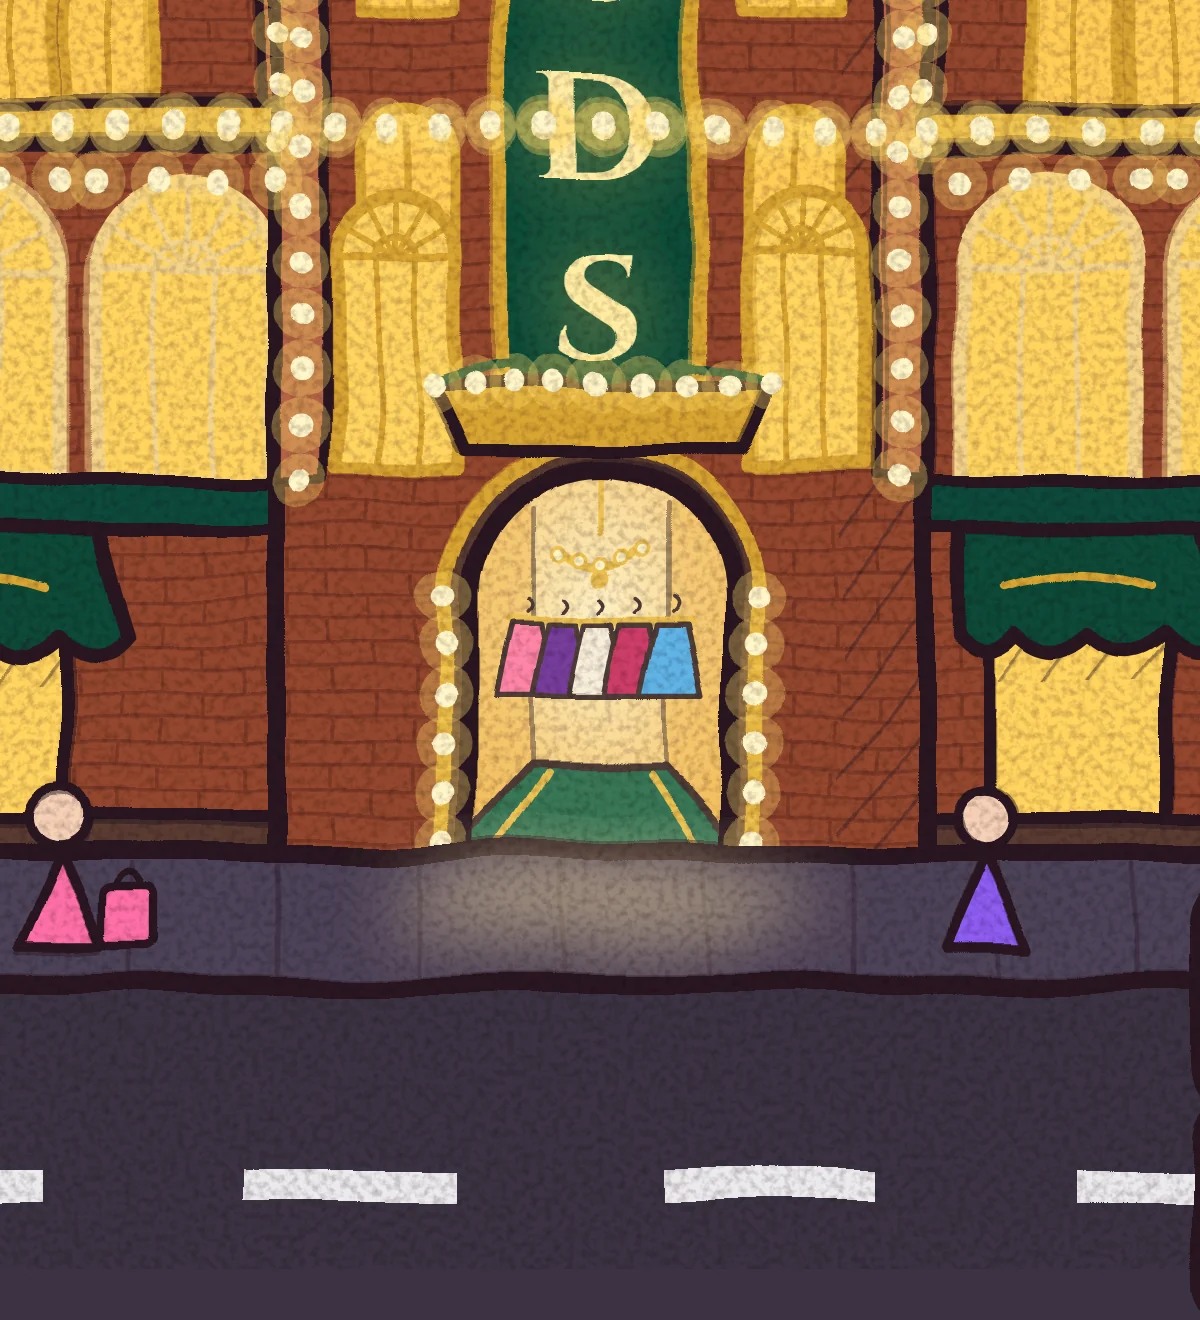
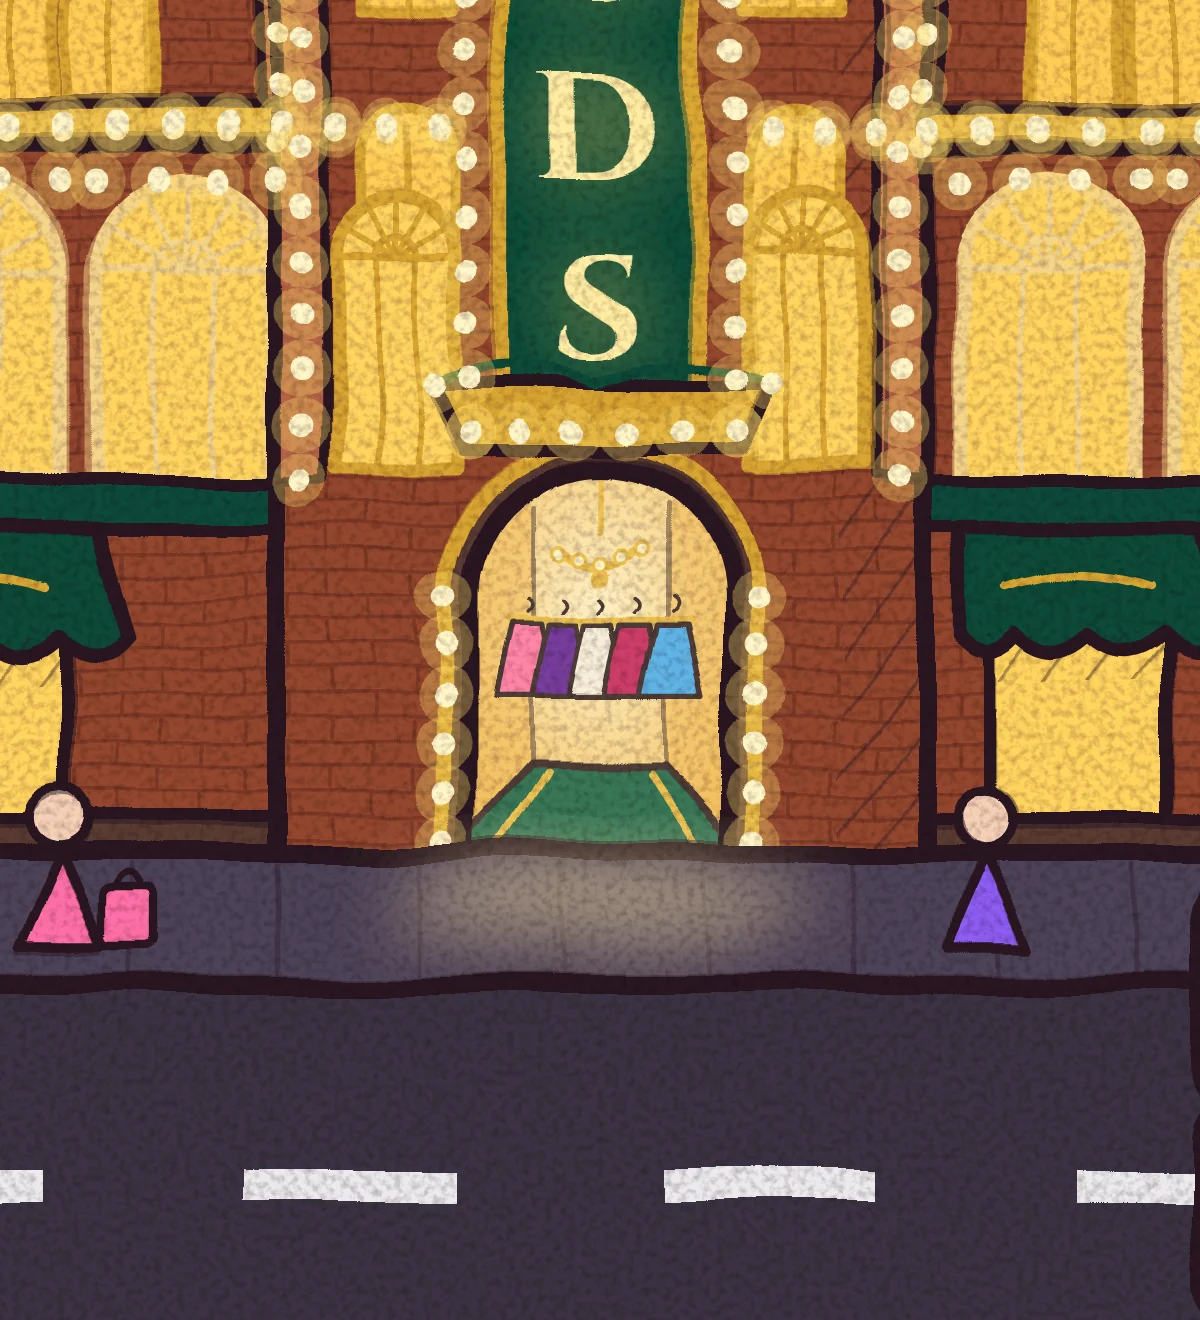
Publish web-robe to robe-web/ from ROBE-plan@1a8b78b

Changed region(s): [[0.37, 0.0, 0.6475, 0.3727]]

diff --git a/robe-web/styles.css b/robe-web/styles.css
@@ -789,6 +789,10 @@ main > section.list-yours { max-width: none; margin: 40px 0 0; padding: 72px max
 .fit-figure .fig-label.on { fill: #E83E8C; fill-opacity: 1; font-weight: 700; }
 .fit-measure-guide .fit-figure-garment { width: 100%; max-width: 260px; height: auto; margin: 0 auto; }
 .fit-invite .fit-add { width: 100%; min-height: 46px; padding: 12px 20px; border-radius: 999px; }
+/* The site's pill buttons when they're <button>s: the site's font, no browser border; full height in a column form. */
+button.qv-cta { border: 0; cursor: pointer; font: 500 15px var(--font-body); }
+button.qv-cta:disabled { opacity: 0.45; cursor: not-allowed; }
+.fit-editor > button.qv-cta { flex: none; width: 100%; height: 48px; margin-top: 6px; }
 .fit-basis { flex-wrap: wrap; border-radius: 16px; text-align: left; }
 .fit-styles { display: flex; justify-content: space-around; gap: 8px; margin: 4px 0; }
 .fit-styles figure { margin: 0; display: flex; flex-direction: column; align-items: center; gap: 4px; }

diff --git a/robe-web/shop.html b/robe-web/shop.html
@@ -17,7 +17,7 @@
     document.documentElement.dataset.theme = theme;
   })();
 </script>
-<link rel="stylesheet" href="styles.css?v=24">
+<link rel="stylesheet" href="styles.css?v=25">
 <link rel="stylesheet" href="shop.css?v=6">
 </head>
 <body data-page="shop">
@@ -72,7 +72,7 @@
   <script src="fitcheck.js?v=4"></script>
   <script src="brand-sizes.js?v=1"></script>
   <script src="fitfinder.js?v=2"></script>
-  <script src="town.js?v=5"></script>
+  <script src="town.js?v=6"></script>
   <script src="showcase.js?v=6"></script>
   <script src="pickup.js?v=2"></script>
   <script src="shop.js?v=10"></script>

diff --git a/robe-web/index.html b/robe-web/index.html
@@ -17,7 +17,7 @@
     document.documentElement.dataset.theme = theme;
   })();
 </script>
-<link rel="stylesheet" href="styles.css?v=24">
+<link rel="stylesheet" href="styles.css?v=25">
 </head>
 <body>
 
@@ -499,7 +499,7 @@
   <script src="fitcheck.js?v=4"></script>
   <script src="brand-sizes.js?v=1"></script>
   <script src="fitfinder.js?v=2"></script>
-  <script src="town.js?v=5"></script>
+  <script src="town.js?v=6"></script>
   <script>
     // Walking into a shop on the landing page opens it in the web shop (after logging in).
     document.addEventListener("DOMContentLoaded", function () {

diff --git a/robe-web/town.js b/robe-web/town.js
@@ -19,7 +19,7 @@
   const DOOR_FILL = 0.42, STEP_IN = 1.8, DOOR_SWING = 78;
   const CLOSEUP = [200, 220], LEAF_MARGIN = 4;
   // The images' version, so a browser never keeps an old drawing.
-  const V = "?v=4";
+  const V = "?v=5";
   const SHOPS = {
     harrods: { name: "Harrods", owner: "Harrods", tagline: "Knightsbridge · London", rect: [24, 432, 444, 438], door: [128, 798, 44, 64], wash: "#F6F1E4",
       about: "Occasionwear and tailoring from the Harrods rental edit. Every piece is checked in and pressed by Harrods before it's sent." },
